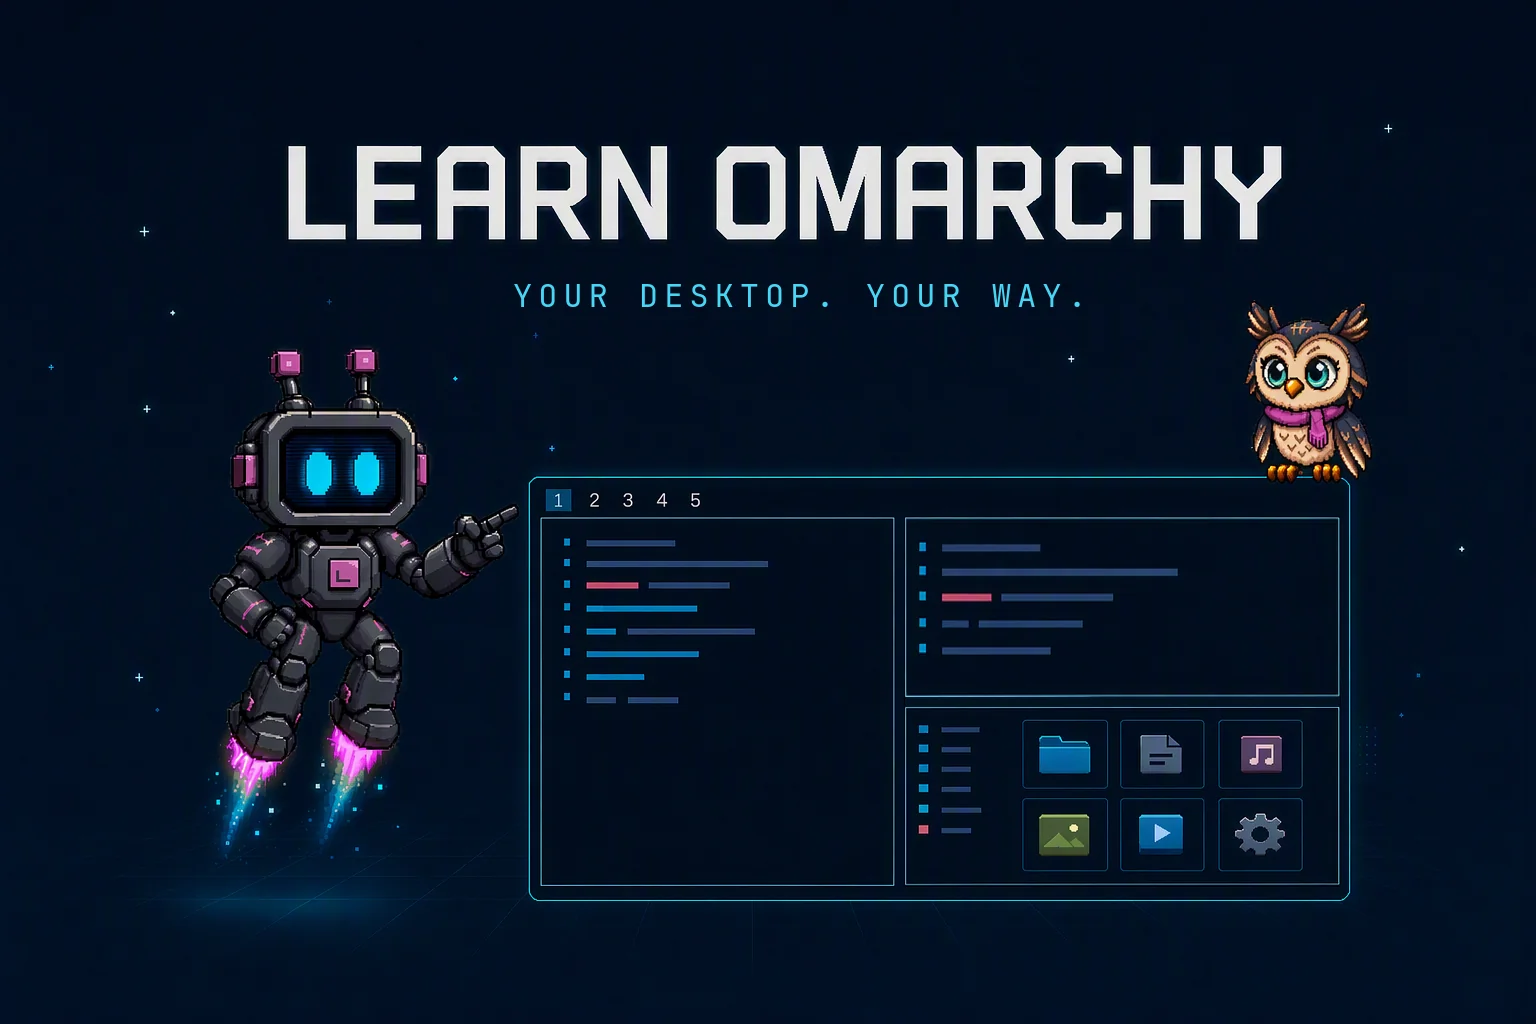
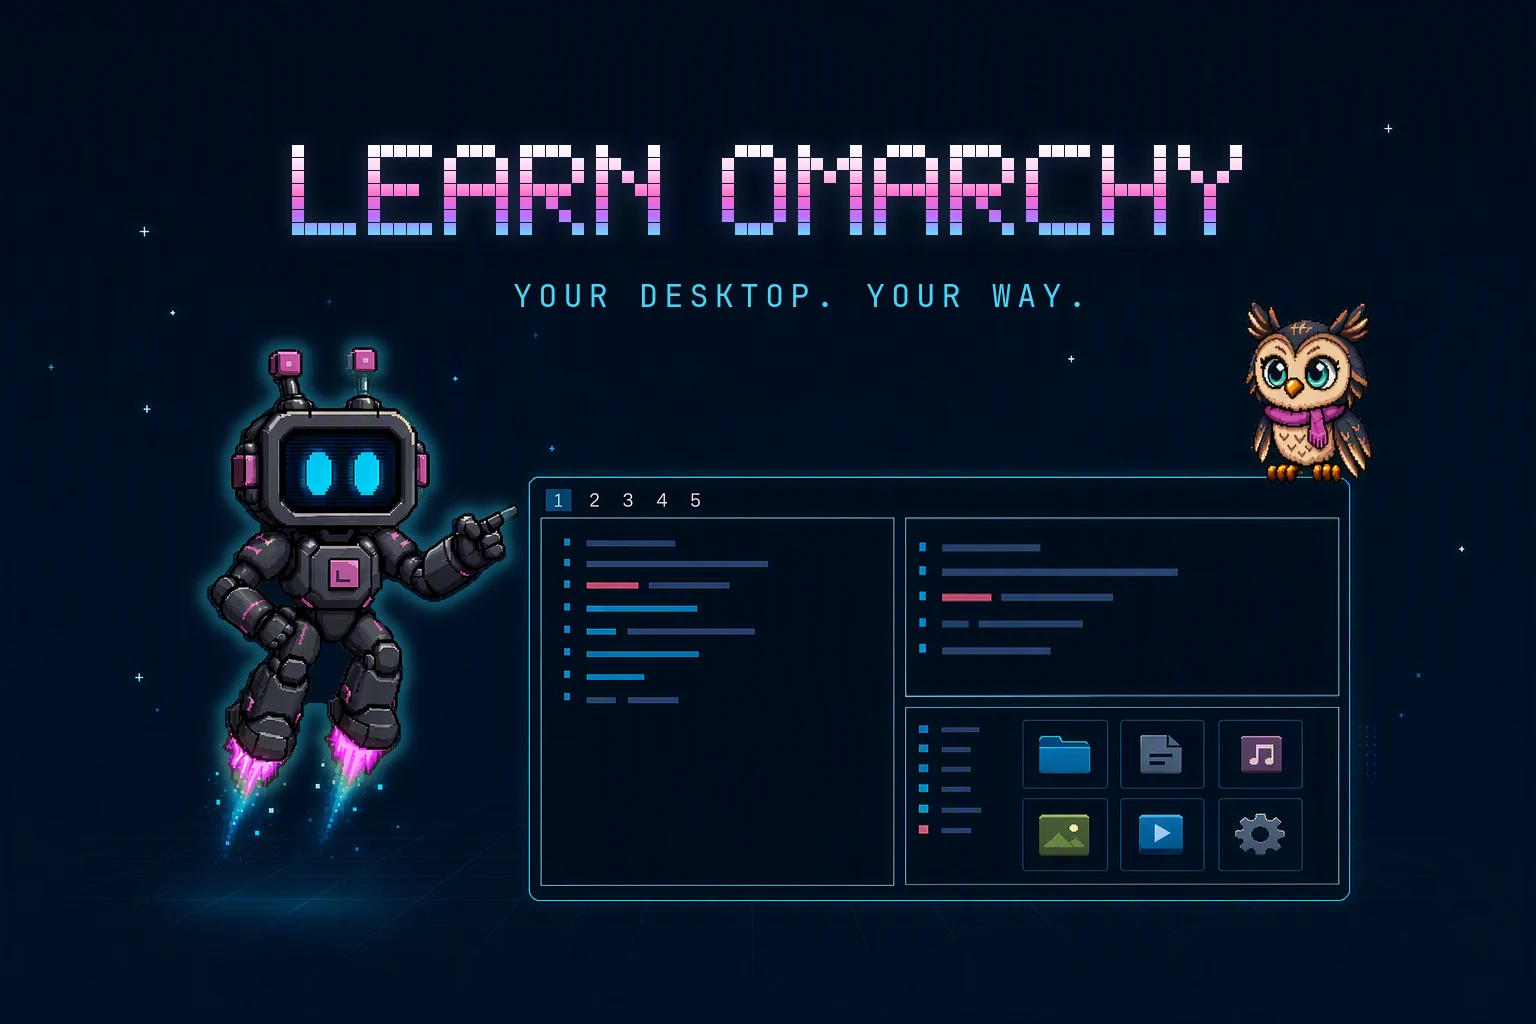
Refresh splash artwork with Neon Aurora wordmark
Copilot-Session: 109acf47-0cc8-4d3f-b7f4-0f451dbe98ca

diff --git a/tests/splash-poster.test.ts b/tests/splash-poster.test.ts
@@ -82,7 +82,7 @@ ShellRoot {
   }
 });
 
-test("illustrated splash is reproducible, attributed, and retains its original composition", () => {
+test("illustrated splash is reproducible, attributed, and matches its approved master", () => {
   const source = readFileSync(new URL(poster.source, assets));
   const output = readFileSync(new URL(poster.output, assets));
   const provenance = JSON.parse(readFileSync(new URL("poster.provenance.json", assets), "utf8"));
@@ -94,17 +94,7 @@ test("illustrated splash is reproducible, attributed, and retains its original c
   const prepared = decodePoster(output);
   assert.deepEqual(prepared, decodePoster(preparePoster()));
   assert.equal(prepared.length, poster.width * poster.height * 3);
-  let changed = 0;
-  for (let i = 0; i < original.length; i += 3) {
-    if (original.subarray(i, i + 3).equals(prepared.subarray(i, i + 3))) continue;
-    const x = (i / 3) % poster.width, y = Math.floor(i / 3 / poster.width);
-    assert.ok((x >= 196 && x < 520 && y >= 330 && y < 860) ||
-      (x >= 1250 && x < 1370 && y >= 402 && y < 462),
-    "lettering, desktop and background remain pixel-identical");
-    assert.equal(Math.max(...original.subarray(i, i + 3)), Math.max(...prepared.subarray(i, i + 3)));
-    changed++;
-  }
-  assert.ok(changed > 1000 && changed < poster.width * poster.height * 0.05);
+  assert.deepEqual(prepared, original);
 });
 
 test("warm boot flames become magenta without recoloring cyan exhaust or Ollie's feathers", () => {
